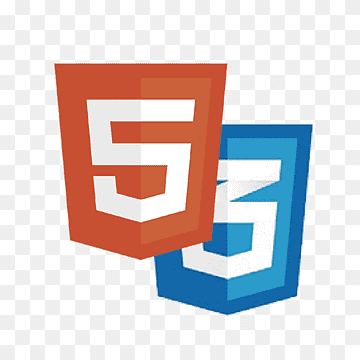
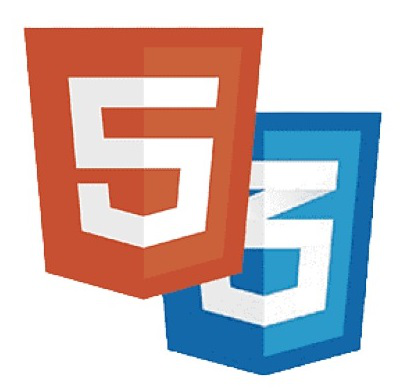
On branch gh-pages Changes to be committed: 	new file:   assets/img/portfolio/aws.jpg 	new file:   assets/img/portfolio/html_css.jpg 	modified:   assets/img/portfolio/html_css.png 	modified:   css/styles.css 	new file:   dist/index.html 	modified:   index.html

diff --git a/dist/index.html b/dist/index.html
@@ -79,7 +79,7 @@
                             <div class="portfolio-item-caption d-flex align-items-center justify-content-center h-100 w-100">
                                 <div class="portfolio-item-caption-content text-center text-white"><i class="fas fa-plus fa-3x"></i></div>
                             </div>
-                            <img class="img-fluid" src="assets/img/portfolio/html_css.png" alt="..." />
+                            <img class="img-fluid" src="assets/img/portfolio/html_css.jpg" alt="..." />
                         </div>
                     </div>
                     <!-- Portfolio Item 3-->
@@ -139,13 +139,84 @@
                 </div>
             </div>
         </section>
+        <!-- Contact Section-->
+        <section class="page-section" id="contact">
+            <div class="container">
+                <!-- Contact Section Heading-->
+                <h2 class="page-section-heading text-center text-uppercase text-secondary mb-0">Contact Me</h2>
+                <!-- Icon Divider-->
+                <div class="divider-custom">
+                    <div class="divider-custom-line"></div>
+                    <div class="divider-custom-icon"><i class="fas fa-star"></i></div>
+                    <div class="divider-custom-line"></div>
+                </div>
+                <!-- Contact Section Form-->
+                <div class="row justify-content-center">
+                    <div class="col-lg-8 col-xl-7">
+                        <!-- * * * * * * * * * * * * * * *-->
+                        <!-- * * SB Forms Contact Form * *-->
+                        <!-- * * * * * * * * * * * * * * *-->
+                        <!-- This form is pre-integrated with SB Forms.-->
+                        <!-- To make this form functional, sign up at-->
+                        <!-- https://startbootstrap.com/solution/contact-forms-->
+                        <!-- to get an API token!-->
+                        <form id="contactForm" data-sb-form-api-token="API_TOKEN">
+                            <!-- Name input-->
+                            <div class="form-floating mb-3">
+                                <input class="form-control" id="name" type="text" placeholder="Enter your name..." data-sb-validations="required" />
+                                <label for="name">Full name</label>
+                                <div class="invalid-feedback" data-sb-feedback="name:required">A name is required.</div>
+                            </div>
+                            <!-- Email address input-->
+                            <div class="form-floating mb-3">
+                                <input class="form-control" id="email" type="email" placeholder="name@example.com" data-sb-validations="required,email" />
+                                <label for="email">Email address</label>
+                                <div class="invalid-feedback" data-sb-feedback="email:required">An email is required.</div>
+                                <div class="invalid-feedback" data-sb-feedback="email:email">Email is not valid.</div>
+                            </div>
+                            <!-- Phone number input-->
+                            <div class="form-floating mb-3">
+                                <input class="form-control" id="phone" type="tel" placeholder="(123) 456-7890" data-sb-validations="required" />
+                                <label for="phone">Phone number</label>
+                                <div class="invalid-feedback" data-sb-feedback="phone:required">A phone number is required.</div>
+                            </div>
+                            <!-- Message input-->
+                            <div class="form-floating mb-3">
+                                <textarea class="form-control" id="message" type="text" placeholder="Enter your message here..." style="height: 10rem" data-sb-validations="required"></textarea>
+                                <label for="message">Message</label>
+                                <div class="invalid-feedback" data-sb-feedback="message:required">A message is required.</div>
+                            </div>
+                            <!-- Submit success message-->
+                            <!---->
+                            <!-- This is what your users will see when the form-->
+                            <!-- has successfully submitted-->
+                            <div class="d-none" id="submitSuccessMessage">
+                                <div class="text-center mb-3">
+                                    <div class="fw-bolder">Form submission successful!</div>
+                                    To activate this form, sign up at
+                                    <br />
+                                    <a href="https://startbootstrap.com/solution/contact-forms">https://startbootstrap.com/solution/contact-forms</a>
+                                </div>
+                            </div>
+                            <!-- Submit error message-->
+                            <!---->
+                            <!-- This is what your users will see when there is-->
+                            <!-- an error submitting the form-->
+                            <div class="d-none" id="submitErrorMessage"><div class="text-center text-danger mb-3">Error sending message!</div></div>
+                            <!-- Submit Button-->
+                            <button class="btn btn-primary btn-xl disabled" id="submitButton" type="submit">Send</button>
+                        </form>
+                    </div>
+                </div>
+            </div>
+        </section>
         <!-- Footer-->
-        <footer class="footer text-center" id="contact">
+        <footer class="footer text-center">
             <div class="container">
                 <div class="row">
                     <!-- Footer Location-->
                     <div class="col-lg-4 mb-5 mb-lg-0">
-                        <h4 class="text-uppercase mb-3">Contact</h4>
+                        <h4 class="text-uppercase mb-4">Contact</h4>
                         <p class="lead mb-0">
                             Pakel 03/04 Banggle Kanigoro
                             <br />
@@ -156,13 +227,13 @@
                     </div>
                     <!-- Footer Social Icons-->
                     <div class="col-lg-4 mb-5 mb-lg-0">
-                        <h4 class="text-uppercase mb-3">Around the Web</h4>
+                        <h4 class="text-uppercase mb-4">Around the Web</h4>
                         <a class="btn btn-outline-light btn-social mx-1" href="https://web.facebook.com/RidhLevebvre/"><i class="fab fa-fw fa-facebook-f" title="https://web.facebook.com/RidhLevebvre/"></i></a>
                         <a class="btn btn-outline-light btn-social mx-1" href="https://www.linkedin.com/in/m-miftahur-r/"><i class="fab fa-fw fa-linkedin-in" title="https://www.linkedin.com/in/m-miftahur-r/"></i></a>
                     </div>
                     <!-- Footer About Text-->
                     <div class="col-lg-4">
-                        <h4 class="text-uppercase mb-3">About This Page</h4>
+                        <h4 class="text-uppercase mb-4">About This Page</h4>
                         <p class="lead mb-0">
                             This page is created with theme created by
                             <a href="http://startbootstrap.com">Start Bootstrap</a>
@@ -198,7 +269,7 @@
                                     <a href="https://www.credly.com/badges/fd9ff76f-5319-42a3-92cf-c29249719ec8" target="_blank"><img class="img-fluid rounded mb-5" src="assets/img/portfolio/aws.png" title="https://www.credly.com/badges/fd9ff76f-5319-42a3-92cf-c29249719ec8" alt="..." /></a>
                                     <!-- Portfolio Modal - Text-->
                                     <p class="mb-4">From KOMINFO Digital Talent i got a chance to take AWS academy class with AWS Cloud Foundation as the theme. The lecture contains the basic of cloud, the basic of AWS pricing and a practice to operate AWS management console.</p>
-                                    <button class="btn btn-primary" type="button" data-bs-dismiss="modal" aria-label="Close">
+                                    <button class="btn btn-primary" href="#!" data-bs-dismiss="modal">
                                         <i class="fas fa-times fa-fw"></i>
                                         Close Window
                                     </button>
@@ -219,7 +290,7 @@
                             <div class="row justify-content-center">
                                 <div class="col-lg-8">
                                     <!-- Portfolio Modal - Title-->
-                                    <h2 class="portfolio-modal-title text-secondary text-uppercase mb-0">Basic Front End</h2>
+                                    <h2 class="portfolio-modal-title text-secondary text-uppercase mb-0">HTML, CSS, JavaScript</h2>
                                     <!-- Icon Divider-->
                                     <div class="divider-custom">
                                         <div class="divider-custom-line"></div>
@@ -227,10 +298,10 @@
                                         <div class="divider-custom-line"></div>
                                     </div>
                                     <!-- Portfolio Modal - Image-->
-                                    <a href="https://github.com/MMiftahurR" target="_blank"><img class="img-fluid rounded mb-5" src="assets/img/portfolio/html_css.png" title="https://github.com/MMiftahurR" alt="..." /> </a>
+                                    <a href="https://github.com/MMiftahurR" target="_blank"><img class="img-fluid rounded mb-5" src="assets/img/portfolio/html_css.jpg" title="https://github.com/MMiftahurR" alt="..." /> </a>
                                     <!-- Portfolio Modal - Text-->
-                                    <p class="mb-4">Basic Front End Programming (HTML, CSS, Basic JavaScript). My Github Respository is https://github.com/MMiftahurR. It contains some my coding practice and my past assignment.</p>
-                                    <button class="btn btn-primary" type="button" data-bs-dismiss="modal" aria-label="Close">
+                                    <p class="mb-4">Basic Front End Programming (HTML, CSS, JavaScript). My Github Respository is https://github.com/MMiftahurR. It contains some my coding practice and my past assignment.</p>
+                                    <button class="btn btn-primary" href="#!" data-bs-dismiss="modal">
                                         <i class="fas fa-times fa-fw"></i>
                                         Close Window
                                     </button>
@@ -262,7 +333,7 @@
                                     <a href="https://www.credly.com/badges/88cca12a-9fe3-46c2-9f78-6a5123a194b1" target="_blank"><img class="img-fluid rounded mb-5" src="assets/img/portfolio/google_it.png" title="https://www.credly.com/badges/88cca12a-9fe3-46c2-9f78-6a5123a194b1" alt="..." /></a>
                                     <!-- Portfolio Modal - Text-->
                                     <p class="mb-4">I participate in Google IT support class in Coursera. In this class, i learn about the fundamental of IT support, Network, Operating System, System Administration, IT Infrastructure and IT security.</p>
-                                    <button class="btn btn-primary" type="button" data-bs-dismiss="modal" aria-label="Close">
+                                    <button class="btn btn-primary" href="#!" data-bs-dismiss="modal">
                                         <i class="fas fa-times fa-fw"></i>
                                         Close Window
                                     </button>

diff --git a/css/styles.css b/css/styles.css
@@ -602,6 +602,7 @@ progress {
 .img-fluid {
   max-width: 100%;
   height: auto;
+  text-align: center;
 }
 
 .img-thumbnail {
@@ -7374,6 +7375,7 @@ textarea.form-control-lg {
 
 .mb-4 {
   margin-bottom: 1.5rem !important;
+  text-align: justify;
 }
 
 .mb-5 {
